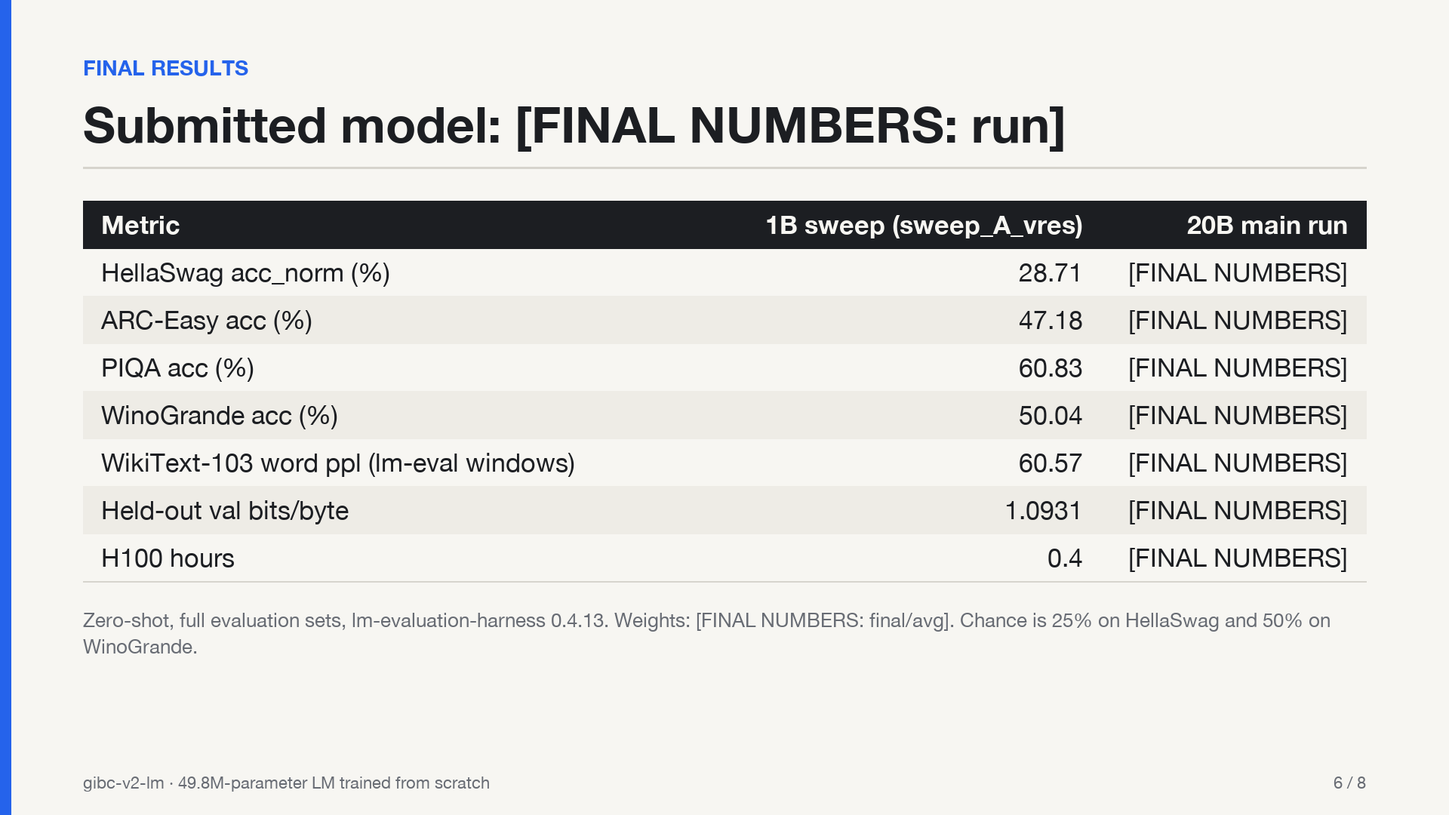
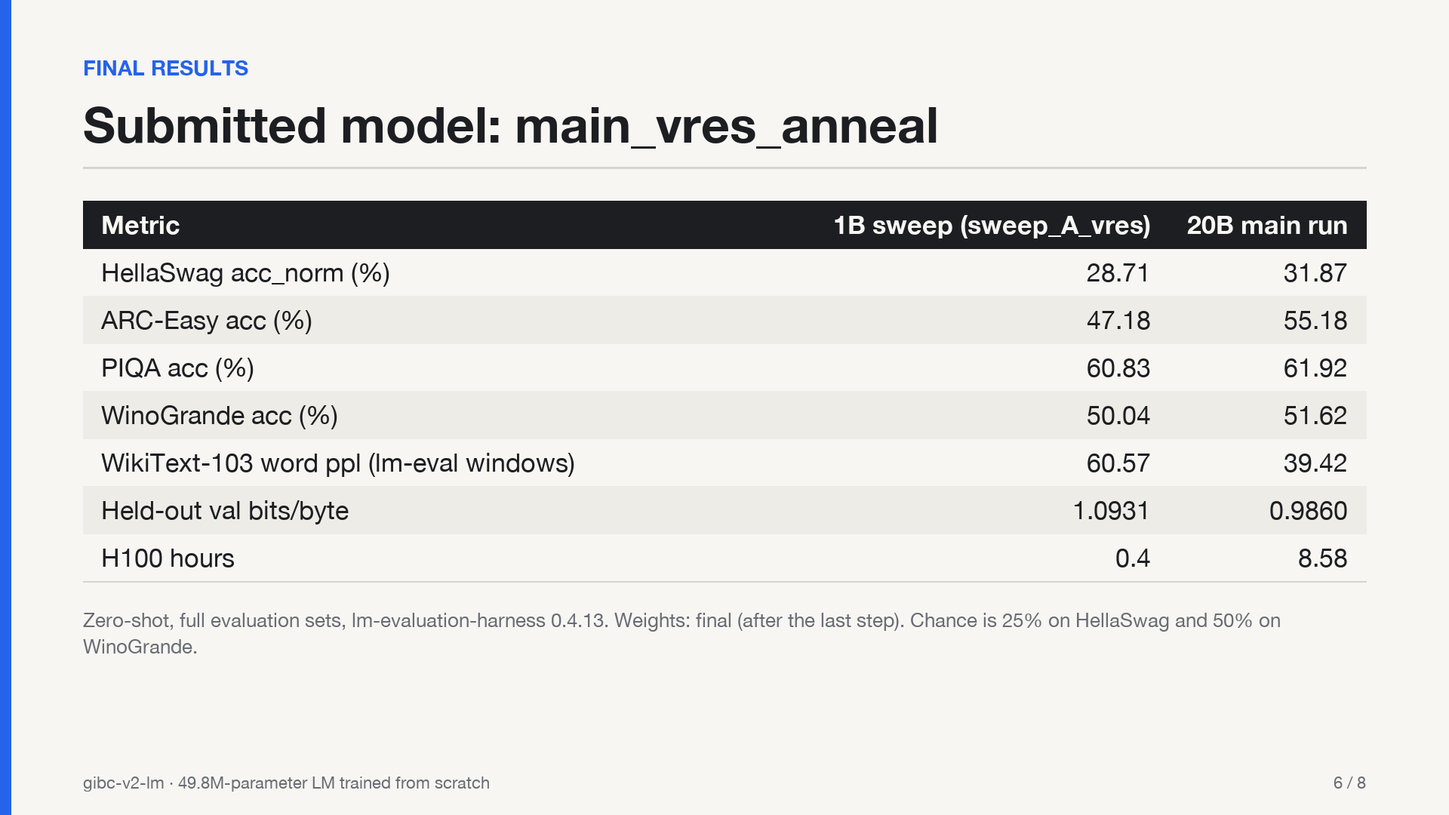
docs: final 20B results, run history, screenshots; final-model demo samples; video values

diff --git a/README.md b/README.md
@@ -8,24 +8,40 @@ Everything in this repository was written by AI coding agents under human direct
 
 ## Headline results
 
-Final numbers for the two 20B-token main runs. "final" is the weights after the last step; "avg" is the elementwise mean of the last 4 decay-phase snapshots (250 steps apart).
+Final numbers for the two 20B-token main runs, final weights (after the last step). Accuracies are in percent.
 
-| | main_vres_anneal | main_vres_mild |
+| | **main_vres_anneal** (submitted) | main_vres_mild |
 |---|---|---|
-| HellaSwag acc_norm | {{MAIN_ANNEAL_HELLASWAG}} | {{MAIN_MILD_HELLASWAG}} |
-| ARC-Easy acc / acc_norm | {{MAIN_ANNEAL_ARCE}} / {{MAIN_ANNEAL_ARCE_N}} | {{MAIN_MILD_ARCE}} / {{MAIN_MILD_ARCE_N}} |
-| PIQA acc / acc_norm | {{MAIN_ANNEAL_PIQA}} / {{MAIN_ANNEAL_PIQA_N}} | {{MAIN_MILD_PIQA}} / {{MAIN_MILD_PIQA_N}} |
-| WinoGrande acc | {{MAIN_ANNEAL_WINO}} | {{MAIN_MILD_WINO}} |
-| WikiText-103 test word ppl, lm-eval-style windows | {{MAIN_ANNEAL_LMWT_WPPL}} | {{MAIN_MILD_LMWT_WPPL}} |
-| WikiText-103 test word ppl, stride 512 | {{MAIN_ANNEAL_WT_WPPL}} | {{MAIN_MILD_WT_WPPL}} |
-| WikiText-103 test bits/byte, stride 512 | {{MAIN_ANNEAL_WT_BPB}} | {{MAIN_MILD_WT_BPB}} |
-| Held-out val bits/byte | {{MAIN_ANNEAL_VAL_BPB}} | {{MAIN_MILD_VAL_BPB}} |
-| Weights reported | {{MAIN_ANNEAL_VARIANT}} | {{MAIN_MILD_VARIANT}} |
-| H100 hours | {{MAIN_ANNEAL_GPU_HOURS}} | {{MAIN_MILD_GPU_HOURS}} |
+| HellaSwag acc_norm | 31.87 | 32.15 |
+| ARC-Easy acc / acc_norm | 55.18 / 47.85 | 53.24 / 47.22 |
+| PIQA acc / acc_norm | 61.92 / 60.28 | 61.97 / 60.28 |
+| WinoGrande acc | 51.62 | 51.46 |
+| WikiText-103 test word ppl, lm-eval-style windows | 39.42 | 38.76 |
+| WikiText-103 test word ppl, stride 512 | 35.21 | 34.65 |
+| WikiText-103 test bits/byte, stride 512 | 0.9608 | 0.9565 |
+| Held-out val bits/byte | 0.9860 | 0.9825 |
+| Weights reported | final | final |
+| H100 hours | 8.58 | 8.36 |
 
-Submitted model: **{{MAIN_SUBMITTED_RUN}}** ({{MAIN_SUBMITTED_VARIANT}} weights). All benchmarks are zero-shot on the full evaluation sets (no `--limit`). Standard errors are about ±0.45 points on HellaSwag, ±1.0 on ARC-Easy, ±1.1 on PIQA and ±1.4 on WinoGrande. Raw JSON: {{MAIN_EVAL_JSON_PATHS}}.
+Submitted model: **main_vres_anneal** (final weights), 49,822,228 trainable parameters counted with the tied embedding and head once, 66,599,444 counted twice (see [Parameter count](#parameter-count)). All benchmarks are zero-shot on the full evaluation sets (no `--limit`). Standard errors are about ±0.45 points on HellaSwag, ±1.0 on ARC-Easy, ±1.1 on PIQA and ±1.4 on WinoGrande. Raw JSON: [`results/main/main_vres_anneal_eval_final.json`](results/main/main_vres_anneal_eval_final.json), [`results/main/main_vres_mild_eval_final.json`](results/main/main_vres_mild_eval_final.json), and the `*_eval_avg.json` files next to them; summary in [`results/main/eval_table.txt`](results/main/eval_table.txt).
 
-Training curves: {{MAIN_CURVES_PNG}}.
+**Why the anneal run.** It is 1.9 points better on ARC-Easy (55.18 vs 53.24; one standard error is about 1.0) at equal PIQA and WinoGrande. The mild run is 0.3 points better on HellaSwag, which is within noise, and 0.56 lower on stride-512 WikiText perplexity (1.6%), which is small but real. We submit the anneal run and report the mild run as the second main run and an ablation of anneal strength.
+
+**What 20B tokens changed.** At 1B tokens the strong anneal cost 2.7 points of PIQA. At 20B that loss did not appear (61.92 vs 61.97), while the stronger anneal's ARC-Easy gain held. Against the 1B `sweep_A_vres` checkpoint, the submitted model gains 3.2 points on HellaSwag and 8.0 on ARC-Easy, and WikiText perplexity (stride 512) falls from 53.95 to 35.21. For scale, Pythia-70M, trained on 300B tokens, reports HellaSwag 26.6, ARC-Easy 36.9 and PIQA 60.0; its recipe, data and parameter count differ from ours, so this is a rough reference, not a controlled comparison.
+
+**Checkpoint averaging gave no gain.** The mean of the last 4 decay-phase snapshots (250 steps apart) scores within 0.5 points of the final weights on every benchmark and within 0.05 on WikiText perplexity, in both runs. After a linear decay to zero learning rate the last snapshots are nearly identical, so there is little to average. The numbers are in `eval_table.txt`.
+
+Training curves for both main runs: [training loss](results/main/train_loss.png), [validation bpb](results/main/val_bpb.png), [throughput](results/main/tok_per_s.png). The anneal mix starts at step 24,795 (13B tokens).
+
+![Validation bits per byte, main runs](results/main/val_bpb.png)
+
+## Screenshots
+
+| Image | What it shows |
+|---|---|
+| [`results/main/train_loss.png`](results/main/train_loss.png) | Training loss for both 20B-token main runs; the anneal mix starts at step 24,795. |
+| [`results/main/val_bpb.png`](results/main/val_bpb.png) | Held-out validation bits per byte for both main runs. |
+| [`results/sweep_1B/val_bpb.png`](results/sweep_1B/val_bpb.png) | Validation bits per byte for all 12 arms of the 1B-token sweep. |
 
 ## Architecture
 
@@ -237,27 +253,29 @@ Each command prints a results table and writes `{run}/evals/{variant}.json` to t
 uv run modal volume get gibc-runs sweep_A/log.jsonl results/sweep_1B/logs/sweep_A/log.jsonl   # per run
 uv run python scripts/plot_curves.py results/sweep_1B/logs/*/log.jsonl   # writes results/{train_loss,val_bpb,tok_per_s}.png; the sweep's copies are in results/sweep_1B/
 
-uv run modal volume get gibc-runs {{MAIN_SUBMITTED_RUN}}/final.pt runs/final.pt
+uv run modal volume get gibc-runs main_vres_anneal/final.pt runs/final.pt
 uv run modal volume get gibc-data tok/tok32k/tokenizer.json runs/tokenizer.json
 uv run python scripts/demo.py --ckpt runs/final.pt --tok runs/tokenizer.json \
     --prompt "The capital of France is" --prompt "Photosynthesis is"
 uv run python scripts/demo.py --ckpt runs/final.pt --tok runs/tokenizer.json -i   # interactive
 ```
 
-`demo.py` runs on a laptop (Apple MPS or CPU) with temperature 0.8, top-k 50 and up to 200 new tokens by default (`--temperature 0` is greedy). Samples from the 1B-token `sweep_A_vres` checkpoint are in [`results/samples/sweep_A_vres_1B.md`](results/samples/sweep_A_vres_1B.md).
+`demo.py` runs on a laptop (Apple MPS or CPU) with temperature 0.8, top-k 50 and up to 200 new tokens by default (`--temperature 0` is greedy). Samples from the submitted model are in [`results/samples/main_vres_anneal_20B.md`](results/samples/main_vres_anneal_20B.md), and the same prompts on the 1B-token `sweep_A_vres` checkpoint are in [`results/samples/sweep_A_vres_1B.md`](results/samples/sweep_A_vres_1B.md).
 
 ## Hardware, time and compute
 
 | Stage | Hardware | Time |
 |---|---|---|
-| Tokenizer training and tokenization | Modal CPU containers (up to 32 x 8 vCPU in parallel) | {{DATA_WALLCLOCK}} |
+| Tokenizer training and tokenization | Modal CPU containers (up to 32 x 8 vCPU in parallel) | not timed end to end (several resumable passes); CPU only, no GPU |
 | 1B sweep, 12 arms | 1 x NVIDIA H100 80GB per arm | 21-32 min per arm; 5.23 H100-hours total |
-| Main runs, 20B tokens each | 1 x NVIDIA H100 80GB per run | about 8 h each (projected); {{MAIN_ANNEAL_GPU_HOURS}} + {{MAIN_MILD_GPU_HOURS}} H100-hours measured |
+| Main runs, 20B tokens each | 1 x NVIDIA H100 80GB per run | 8.43 h (anneal) and 8.33 h (mild) wall-clock; 8.58 + 8.36 = 16.94 H100-hours |
 | Evaluation | 1 x NVIDIA L4 24GB | 2.2-3.4 min per model (full benchmarks + both WikiText variants) |
 
-Measured training throughput (median tokens/s over each run's log, first 50 steps excluded): 845k for Config A, 800k with value residual, 632k for the weight-shared alt1, 963k for the 16k-vocabulary alt2. Per-arm figures are in `eval_table.csv`. The main runs train at about 830k tokens/s (0.63 s per step) and pause about 37 s for each validation pass every 250 steps, which puts a 38,146-step run at about 8.2 hours of wall-clock.
+Measured training throughput (median tokens/s over each run's log, first 50 steps excluded): 845k for Config A, 800k with value residual, 632k for the weight-shared alt1, 963k for the 16k-vocabulary alt2. Per-arm figures are in `eval_table.csv`. The main runs trained at a median 826k tokens/s (0.63 s per step) and pause about 37 s for each validation pass every 250 steps, which puts an uninterrupted 38,146-step run at about 8.2 hours. The measured times above are higher because they include `torch.compile` warm-up and the steps redone after the interruption described below. H100-hours are the GPU time each run's status file records (`results/main/*_status.json`), redone steps included; wall-clock is the trainer's elapsed time.
 
-Approximate training compute uses 6·N·D with N = 49.8M (the tied head's matmul costs as much as a separate head would), plus about 15% for causal attention at 1,024 context: roughly 3.4e17 FLOPs per 1B-token sweep arm and 6.9e18 FLOPs per 20B-token main run. At 800-845k tokens/s that is about 27-29% of the H100's dense bf16 peak. Total project compute: {{TOTAL_GPU_HOURS}} H100-hours for training (sweep plus main runs, including smoke tests) and {{TOTAL_EVAL_HOURS}} L4-hours for evaluation.
+Approximate training compute uses 6·N·D with N = 49.8M (the tied head's matmul costs as much as a separate head would), plus about 15% for causal attention at 1,024 context: roughly 3.4e17 FLOPs per 1B-token sweep arm and 6.9e18 FLOPs per 20B-token main run. At 800-845k tokens/s that is about 27-29% of the H100's dense bf16 peak. Total project compute: about 22.3 H100-hours for training (12 sweep arms 5.23, two main runs 16.94, smoke tests about 0.1), about 2 L4-hours for evaluation (approximate), and CPU only for tokenizer training and tokenization. The approximate total cost on Modal was about USD 120.
+
+**Run history.** Both main runs were interrupted at 17:57 UK time on 26 September 2026, when the Modal workspace hit its spend limit: `main_vres_anneal` at step 37,209 and `main_vres_mild` at step 36,653, of 38,146. After the limit was raised, each resumed from its last full checkpoint (step 36,564 and step 34,562). A resume restores the model, optimizer state, RNG state and data-loader cursors. For `main_vres_anneal` there was one extra step: the data manifest had grown after the run started, so its checkpoint's shard order was pinned to the manifest it started with ([`scripts/pin_loader_state.py`](scripts/pin_loader_state.py)), and the pinned loader was checked to yield the same batches, batch for batch. On a GPU in bf16 with `torch.compile`, a resumed run can still differ from an uninterrupted one by floating-point noise. For `main_vres_mild`, when the limit was lifted Modal auto-restarted a stale driver, so for about 25 minutes two trainers ran in parallel from the same checkpoint, with identical state, until the extra one was stopped. The volume kept one writer's copy of each file. The only consequence is that `log.jsonl` is missing the lines for steps 36,654-36,871 (218 of 38,146); checkpoints, snapshots and final weights are unaffected.
 
 ## Evaluation protocol
 
@@ -304,6 +322,7 @@ PyTorch 2.11 (including `torch.optim.Muon`), Hugging Face `tokenizers`, `transfo
 - **Small-model benchmark scores.** At this scale HellaSwag and WinoGrande sit only a few points above chance (25% and 50%), so small differences in those two carry little information.
 - **Evaluation numerics.** Evaluation runs in bf16 on an L4, which can differ in the last digit from an fp32 run. Our lm-eval-style WikiText number is close to, but not bit-identical with, lm-eval's own `wikitext` task.
 - **Context.** The context is 1,024 tokens, and attention crosses document boundaries during training.
+- **Interrupted main runs.** Both main runs were stopped by a spend limit near the end and resumed from checkpoints (see [Run history](#hardware-time-and-compute)). The resume is exact in data and optimizer state, but in bf16 with `torch.compile` it may differ from an uninterrupted run by floating-point noise, and `main_vres_mild`'s training log is missing 218 steps (36,654-36,871) because two trainers briefly wrote to the same run.
 
 ## Citations
 

diff --git a/docs/DEVPOST.md b/docs/DEVPOST.md
@@ -1,6 +1,6 @@
 # Devpost submission copy
 
-Everything to paste into the Devpost form for GIBC V2, Track 01. Replace every `{{MAIN_...}}` placeholder with the same value used in README.md once the main runs are evaluated. Requirements below were checked against https://gibc-v2.devpost.com/rules on 2026-09-26.
+Everything to paste into the Devpost form for GIBC V2, Track 01. The numbers match README.md. Requirements below were checked against https://gibc-v2.devpost.com/rules on 2026-09-26.
 
 ## 1. Name and tagline
 
@@ -18,11 +18,11 @@ Track 01 caps the model at 50 million trainable parameters, embeddings and outpu
 
 gibc-v2-lm is a 14-layer decoder-only transformer, width 512, with 49,822,228 trainable parameters. The embedding and output head are one tied tensor, counted once. Counted twice it would be 66,599,444; the README shows both counts and the script that prints them. It is trained from random initialisation on 20B tokens with our own 32k byte-level BPE tokenizer.
 
-The submitted model is {{MAIN_SUBMITTED_RUN}} ({{MAIN_SUBMITTED_VARIANT}} weights). Zero-shot on the full sets, main_vres_anneal scores HellaSwag {{MAIN_ANNEAL_HELLASWAG}}, ARC-Easy {{MAIN_ANNEAL_ARCE}}, PIQA {{MAIN_ANNEAL_PIQA}}, WinoGrande {{MAIN_ANNEAL_WINO}} and WikiText-103 word perplexity {{MAIN_ANNEAL_LMWT_WPPL}}; main_vres_mild scores {{MAIN_MILD_HELLASWAG}}, {{MAIN_MILD_ARCE}}, {{MAIN_MILD_PIQA}}, {{MAIN_MILD_WINO}} and {{MAIN_MILD_LMWT_WPPL}}.
+The submitted model is main_vres_anneal (final weights). Zero-shot on the full sets it scores HellaSwag 31.87 (acc_norm), ARC-Easy 55.18 (acc), PIQA 61.92 (acc), WinoGrande 51.62 and WikiText-103 test word perplexity 39.42 with lm-eval-style windows (35.21 with a stride-512 sliding window). The second main run, main_vres_mild, which uses a milder anneal, scores 32.15, 53.24, 61.97, 51.46 and 38.76. We submit the anneal run for its 1.9-point ARC-Easy lead at equal PIQA and WinoGrande. For scale, Pythia-70M reports HellaSwag 26.6, ARC-Easy 36.9 and PIQA 60.0 after 300B tokens, with a different recipe and data.
 
 ### How we built it
 
-The recipe is Muon on the block matrices and AdamW on the embedding and scalars, with QK-norm, ReLU², U-net skips and a logit softcap from modded-nanogpt, plus a ResFormer value residual. Training uses a warmup-stable-decay schedule; for the last 35% the loader switches to a quality anneal mix of high-scoring FineWeb-Edu, FineMath and 5% decontaminated Wikipedia. The two main runs differ only in how hard the anneal leans on curated data. Each takes about 8 hours on one H100.
+The recipe is Muon on the block matrices and AdamW on the embedding and scalars, with QK-norm, ReLU², U-net skips and a logit softcap from modded-nanogpt, plus a ResFormer value residual. Training uses a warmup-stable-decay schedule; for the last 35% the loader switches to a quality anneal mix of high-scoring FineWeb-Edu, FineMath and 5% decontaminated Wikipedia. The two main runs differ only in how hard the anneal leans on curated data. They took 8.58 and 8.36 H100-hours.
 
 Before committing to a 20B run we ran a 12-run, 1B-token ablation sweep: a baseline plus 11 single-change arms, each about half an H100-hour.
 
@@ -34,7 +34,7 @@ This project was built with Claude Code agents (Claude Opus 5.5 and Claude Fable
 
 ### Challenges we ran into
 
-WikiText-103 is made of Wikipedia articles, and the web copies them. Before filtering, a 250M-token sample of our shards contained 4.96% of WikiText-103 test 13-grams, from 6 web documents. The parameter cap was a second problem: the rules do not say how to count a tied matrix, so we report both conventions rather than pick the favourable one. Finally, one seed at 1B tokens gives standard errors of 0.45 to 1.4 benchmark points, so most decisions rest on perplexity and bits per byte.
+WikiText-103 is made of Wikipedia articles, and the web copies them. Before filtering, a 250M-token sample of our shards contained 4.96% of WikiText-103 test 13-grams, from 6 web documents. The parameter cap was a second problem: the rules do not say how to count a tied matrix, so we report both conventions rather than pick the favourable one. One seed at 1B tokens gives standard errors of 0.45 to 1.4 benchmark points, so most decisions rest on perplexity and bits per byte. Near the end, both main runs were stopped by our Modal spend limit and resumed from checkpoints with model, optimizer, RNG and data cursors restored; the README describes this, including 218 training-log lines lost from one run when two trainers briefly ran at once.
 
 ### Accomplishments that we're proud of
 
@@ -42,7 +42,7 @@ Every change in the main runs was tested first. Value residual cut 1B WikiText p
 
 ### What we learned
 
-At this size the embedding decides the architecture. Perplexity is a far steadier signal than the benchmarks. The quality anneal traded PIQA for ARC-Easy at 1B, which we could not resolve, so both strengths became main runs. The Wikipedia anneal arm finished after the main runs started: ARC-Easy 48.74 and WikiText perplexity 54.70, against 47.98 and 58.51 without Wikipedia.
+At this size the embedding decides the architecture. Perplexity is a far steadier signal than the benchmarks. The quality anneal traded PIQA for ARC-Easy at 1B, which we could not resolve, so both strengths became main runs. The Wikipedia anneal arm finished after the main runs started: ARC-Easy 48.74 and WikiText perplexity 54.70, against 47.98 and 58.51 without Wikipedia. At 20B tokens the trade-off mostly went away: the strong anneal kept its ARC-Easy gain and the PIQA drop seen at 1B did not appear (61.92 vs 61.97). Averaging the last four checkpoints gave nothing, because after a decay to zero they are nearly identical.
 
 ### What's next
 
@@ -105,29 +105,29 @@ Upload at least 3. Captions are one line each.
 
 | # | File | Caption |
 |---|---|---|
-| 1 | `results/main/val_bpb.png` (placeholder; see `{{MAIN_CURVES_PNG}}`) | Validation bits per byte for the two 20B-token main runs. |
-| 2 | `results/main/train_loss.png` (placeholder; see `{{MAIN_CURVES_PNG}}`) | Training loss for the two main runs; the anneal mix starts at step 24,795. |
+| 1 | `results/main/val_bpb.png` | Validation bits per byte for the two 20B-token main runs. |
+| 2 | `results/main/train_loss.png` | Training loss for the two main runs; the anneal mix starts at step 24,795. |
 | 3 | `results/sweep_1B/val_bpb.png` | Validation bits per byte for the 1B-token ablation sweep, all arms overlaid. |
 | 4 | `video/slides/05_sweep.png` | Ablation results: value residual gives the largest WikiText gain, AdamW-only is far behind Muon. |
 | 5 | `video/slides/02_architecture.png` | Parameter count: 49,822,228 with the tied embedding counted once, 66,599,444 counted twice. |
 
-There is no standalone image of the full ablation table; slide 05 shows the key rows. If a screenshot of the raw count printout is wanted, capture the terminal output of `uv run python scripts/count_params.py`. Slides 05 and 02 do not depend on the main runs; items 1 and 2 need the main-run curves rendered with `scripts/plot_curves.py`.
+There is no standalone image of the full ablation table; slide 05 shows the key rows. If a screenshot of the raw count printout is wanted, capture the terminal output of `uv run python scripts/count_params.py`. Items 1 and 2 are the rendered main-run curves.
 
 ## 5. Submission checklist
 
 | Requirement (rules) | Where it is satisfied | Status |
 |---|---|---|
-| Project description | Form: "About the project", section 2 above | Ready, needs `{{MAIN_...}}` values |
+| Project description | Form: "About the project", section 2 above | Ready |
 | Public source repo with README: setup, prerequisites, run instructions | https://github.com/Unluckyathecking/gibc-v2-lm, README "Reproduction" | **Repo is currently private. Make it public before submitting.** |
-| Demo video, 2-5 min, YouTube/Vimeo/Youku, unlisted OK, English audio or subtitles | `video/gibc_demo.mp4` (4 min 9 s, English narration), `video/captions.srt`; form: video link | Re-render with final numbers, upload unlisted, add the SRT as subtitles, paste link |
+| Demo video, 2-5 min, YouTube/Vimeo/Youku, unlisted OK, English audio or subtitles | `video/gibc_demo.mp4` (4 min 25 s, English narration), `video/captions.srt`; form: video link | Rendered with final numbers; upload unlisted, add the SRT as subtitles, paste link |
 | Built With: every technology, library, API, dataset, hardware, AI tools | Form: Built With, section 3 above | Ready |
 | Team: all members by real full name, each with a Devpost account added to the submission | Form: team members | Add Mohammed Alibhai (and any teammates). Under-18 entrants need parental or guardian permission. |
-| At least 3 screenshots | Form: image gallery, section 4 above | 3 available now; 2 need main-run curves |
+| At least 3 screenshots | Form: image gallery, section 4 above | Ready (5 images) |
 | Track selection | Form: Track 01, TECH (foundational LLM development) | Select on submit |
 | Track 01: at most 50,000,000 trainable params incl. embeddings and head; count script and config in repo | README "Parameter count", `scripts/count_params.py`, `gibc/configs.py` | Done; both conventions shown |
 | Track 01: trained from scratch, no pretrained weights, fine-tuning or distillation | README intro, "Data", "AI use disclosure" | Done |
-| Track 01: hardware, total training time, approximate compute in README | README "Hardware, time and compute" | Needs `{{MAIN_*_GPU_HOURS}}`, `{{TOTAL_GPU_HOURS}}`, `{{TOTAL_EVAL_HOURS}}`, `{{DATA_WALLCLOCK}}` |
-| Track 01: HellaSwag, ARC-Easy, PIQA, WinoGrande via lm-eval, WikiText-103 perplexity; numbers and eval script in README | README "Headline results", "Evaluation protocol", `gibc/evaluate.py`, `modal_eval.py` | Needs main-run numbers |
+| Track 01: hardware, total training time, approximate compute in README | README "Hardware, time and compute" | Done: 16.94 H100-hours for the main runs, about 22.3 in total, about 2 L4-hours of evaluation, run history |
+| Track 01: HellaSwag, ARC-Easy, PIQA, WinoGrande via lm-eval, WikiText-103 perplexity; numbers and eval script in README | README "Headline results", "Evaluation protocol", `gibc/evaluate.py`, `modal_eval.py` | Done |
 | AI tools disclosed in Built With and AI-assisted parts noted in README | Built With (section 3), README "AI use disclosure" | Done |
 | Commits pushed after the deadline may be disregarded | Push final README and results before the deadline | Pending |
 
@@ -135,4 +135,4 @@ Judging criteria for Track 01, as the rules word them: Perplexity & Accuracy; Re
 
 **Deadline:** 1 October 2026, 23:45 UTC+8 = 15:45 UTC = 16:45 BST (UK).
 
-**Before pressing submit:** make the GitHub repo public, confirm every `{{...}}` placeholder is gone from README.md, `video/script.json` and this form, and confirm nothing is left unpushed.
+**Before pressing submit:** make the GitHub repo public, confirm no placeholder is left in README.md, `video/script.json` or this form, and confirm nothing is left unpushed.

diff --git a/results/samples/main_vres_anneal_20B.md b/results/samples/main_vres_anneal_20B.md
@@ -1,0 +1,55 @@
+# Samples: main_vres_anneal, 20B tokens (submitted model)
+
+These come from the final weights of `main_vres_anneal`, the submitted model (49,822,228 parameters, 38,146 steps, 20B tokens). The prompts and settings are the same as in [`sweep_A_vres_1B.md`](sweep_A_vres_1B.md), so the two files can be read side by side.
+
+Quality in one line: sentences are fluent and paragraphs hold their topic and register longer than at 1B, but facts are still invented or self-contradictory, it cannot do the arithmetic, and greedy decoding still loops.
+
+Generated on an Apple M4 laptop (MPS) with `scripts/demo.py`, weights `main_vres_anneal/final.pt`, tokenizer `tok/tok32k/tokenizer.json`:
+
+```bash
+uv run python scripts/demo.py --ckpt final.pt --tok tokenizer.json \
+    --max-new 80 --temperature 0.8 --top-k 50 --seed 0 --prompt "..." --prompt "..."
+```
+
+The six sampled prompts ran in one process in the order below, so each sample depends on the seed and on the prompts before it. Each was cut at 80 new tokens. Prompts are in bold. Output is copied unedited.
+
+## Sampled (temperature 0.8, top-k 50)
+
+### Factual sentence start
+
+**The first person to walk on the Moon was** a 4th century BC man named Cressinus, according to a report from a Chinese expeditionary expedition to the Moon. During the 18th century, a number of Chinese explorers began to explore the Moon, and by the 19th century, China had become an important partner of the European exploration of the Moon.
+The first man to walk on the Moon was a British astronomer, Henry
+
+### Story opener
+
+**Once upon a time, in a small village by the sea,** there was a man. But he was a man of a low stature. He was not one of the many things that made him unique. After years of living in small villages, the man’s stature and popularity have gradually declined. Now, despite his very recent return, he remains the most popular man in the village.
+If you ask your friends who they are, these man are always asking: “
+
+### Maths word problem
+
+**Sarah has 12 apples. She gives 5 to her brother and buys 3 more. How many apples does she have now?** How many apples does she have left?
+• ### How many apples can she buy at a loss?
+
+How many apples can she buy at a loss? The price increases by 5% on this day. If the remaining apples were sold at 4% off of the original price, they would have cost 8 dollars today, and 3 dollars later, which is 3 times as much.
+
+### Wikipedia-style lead
+
+**The Amazon River is** one of the world’s largest rivers. It is also one of the longest rivers in the world. From its source in the Amazon region to reach its destination in the middle of the world, this river is home to many different creatures. The Amazon basin is where the Amazon River and its tributaries merge. The Amazon basin is the world’s largest river with its source in the Amazon region. As such
+
+### How-to
+
+**How to make a cup of tea: First,** it needs to be placed in the right place. Second, it needs to be placed in a container that is approximately the size of a pinhead. And finally, it needs to be completely wrapped in a cup that is approximately the size of a pinhead. When placed in a cup, the food will not be able to reach the plate. So, it is best to wrap it in a cup
+
+### Dialogue
+
+**"Where are you going?" asked Tom.** He was in the bathroom while the others were sitting, with the same answer for one of them. Tom didn’t even try to speak, and the person in the dark said something not very obvious. "I’m going to have a small group on the floor in front of you. I’m going to tell you about one of your friends. They are working on a math project for their class.
+
+## Greedy (temperature 0)
+
+**The Amazon River is** the largest river in the world, and the largest river in the world. It is the second largest river in the world after the Nile. The Amazon River is the second largest river in the world after the Nile. The Amazon River is the second largest river in the world after the Nile. The Amazon River is the second largest river in the world after the Nile. The Amazon River is the second largest
+
+Greedy decoding contradicts itself in the second sentence and then loops, as the 1B checkpoint did.
+
+## Speed
+
+About 1.0-1.4 s per 80-token sample on MPS after the first (3.0 s including warm-up).

diff --git a/docs/VIDEO_SCRIPT.md b/docs/VIDEO_SCRIPT.md
@@ -5,7 +5,7 @@
 The video is rendered automatically; the narration and slides live in [`video/script.json`](../video/script.json), which is the source of truth (the outline below is the original plan it was written from).
 
 ```bash
-uv run modal volume get gibc-runs <submitted_run>/final.pt runs/final.pt
+uv run modal volume get gibc-runs main_vres_anneal/final.pt runs/final.pt
 uv run modal volume get gibc-data tok/tok32k/tokenizer.json runs/tokenizer.json
 uv run python scripts/make_video.py --ckpt runs/final.pt --tok runs/tokenizer.json
 ```
@@ -14,16 +14,16 @@ This samples the demo prompts from the checkpoint, synthesises the narration wit
 
 The voice is `voice` in `script.json` (default `bf_emma`, British female; `speed` 1.0). Override it with `--voice`: British `bf_emma`, `bf_isabella`, `bm_george`, `bm_lewis`, or American `af_heart`, `am_michael` (the first letter picks the accent; full list on the model card). To judge a voice quickly, `--sample --voice bm_george` renders only the first scene to `video/voice_sample.mp4` in about 10 seconds. `--tts say` falls back to macOS `say`, using `say_voice` and `rate` from `script.json` (or `--voice Daniel`).
 
-To finish the video once the main runs are evaluated, edit only the `values` block at the top of `video/script.json` (every `[FINAL NUMBERS]` entry: run name, benchmark scores, WikiText perplexity, val bits/byte, GPU hours, weights variant, a one-sentence remark and the demo checkpoint label) and rerun the command with the final checkpoint. The script lists any placeholder still left when it finishes. `pronounce` maps written terms to how the voice should say them; captions keep the written form.
+The `values` block at the top of `video/script.json` holds the final numbers for the submitted model, `main_vres_anneal` (final weights): run name, benchmark scores, WikiText perplexity, val bits/byte, GPU hours, weights variant, a one-sentence remark and the demo checkpoint label. To change them, edit that block and rerun the command. The script lists any `[FINAL` placeholder still left when it finishes. `pronounce` maps written terms to how the voice should say them; captions keep the written form.
 
 ## Original outline
 
-Screen recording with voice-over. Times are cumulative targets. Anything in `{{...}}` is filled in once the main runs finish.
+Screen recording with voice-over. Times are cumulative targets. The final numbers are filled in below.
 
 ## 0:00-0:20 What this is
 
 - On screen: README title and the headline results table.
-- Say: a 49.8M-parameter language model trained from scratch on 20B tokens of openly licensed text, with our own tokenizer, on one H100 in about 8 hours. It scores {{HEADLINE_ONE_LINE}} on HellaSwag, ARC-Easy, PIQA and WinoGrande, and has WikiText-103 perplexity {{MAIN_LMWT_WPPL}}.
+- Say: a 49.8M-parameter language model trained from scratch on 20B tokens of openly licensed text, with our own tokenizer, on one H100 in about 8 hours. It scores 31.9, 55.2, 61.9 and 51.6 on HellaSwag, ARC-Easy, PIQA and WinoGrande, and has WikiText-103 perplexity 39.4 (lm-eval-style windows).
 
 ## 0:20-1:05 Architecture and the parameter budget
 
@@ -47,9 +47,9 @@ Screen recording with voice-over. Times are cumulative targets. Anything in `{{.
 
 ## 2:15-2:50 Main-run curves and final numbers
 
-- On screen: main-run training loss and val bpb curves ({{MAIN_CURVES_PNG}}), with the point where the anneal starts at 13B tokens marked.
+- On screen: main-run training loss and val bpb curves (`results/main/train_loss.png`, `results/main/val_bpb.png`), with the point where the anneal starts at 13B tokens marked.
 - Say: both runs use the same recipe for the first 65% of training and differ in the anneal mix.
-- On screen: headline table. Read the submitted model's numbers: {{MAIN_SUBMITTED_RUN}}, HellaSwag {{...}}, ARC-Easy {{...}}, PIQA {{...}}, WinoGrande {{...}}, WikiText {{...}}.
+- On screen: headline table. Read the submitted model's numbers: main_vres_anneal, HellaSwag 31.87, ARC-Easy 55.18, PIQA 61.92, WinoGrande 51.62, WikiText 39.42.
 - Say: evaluation uses lm-evaluation-harness 0.4.13, zero-shot, on the full sets. The command is `modal run modal_eval.py::main --run ...`.
 
 ## 2:50-3:40 Live generation

diff --git a/docs/DESIGN.md b/docs/DESIGN.md
@@ -49,6 +49,15 @@ Why each part of the model and pipeline is there, and what we considered and dro
 
 **Filtering the multiple-choice benchmarks from training data.** We measure 13-gram overlap with HellaSwag, ARC-Easy, PIQA and WinoGrande items but do not drop documents for it. We chose to report the overlap rather than act on it; it is in the README so readers can judge.
 
+## What the 20B runs showed
+
+The two main runs share everything except the anneal mix, so they test the one question the 1B sweep left open.
+
+- **The anneal trade-off did not survive scale.** At 1B the strong anneal gained ARC-Easy and lost 2.7 points of PIQA. At 20B, `main_vres_anneal` still leads the mild run on ARC-Easy (55.18 vs 53.24) but PIQA is level (61.92 vs 61.97), as is WinoGrande (51.62 vs 51.46). The stronger anneal is the better choice, and it is the submitted model.
+- **The mild anneal is slightly better on perplexity.** WikiText-103 (stride 512) is 34.65 against 35.21, val bpb 0.9825 against 0.9860, and HellaSwag 32.15 against 31.87 (within noise). Keeping more general web text in the decay helps text modelling a little, as expected, but not enough to outweigh ARC-Easy. The runs also read the main-mix shards in different orders, so part of this gap may be data order.
+- **Value residual plus the Wikipedia anneal, untested together at 1B, worked.** From the 1B `sweep_A_vres` checkpoint to the 20B submitted model, WikiText perplexity fell from 53.95 to 35.21, HellaSwag rose 3.2 points and ARC-Easy 8.0.
+- **Snapshot averaging was not worth it.** The mean of the last four snapshots is within 0.5 points of the final weights on every benchmark. With a linear decay to zero the last 750 steps barely move the weights, so there is nothing to average out. We report the final weights.
+
 ## Sponsor tooling considered and declined
 
 Adaption Labs (a GIBC sponsor) offers participants platform credits. We read its docs and did not use it:
